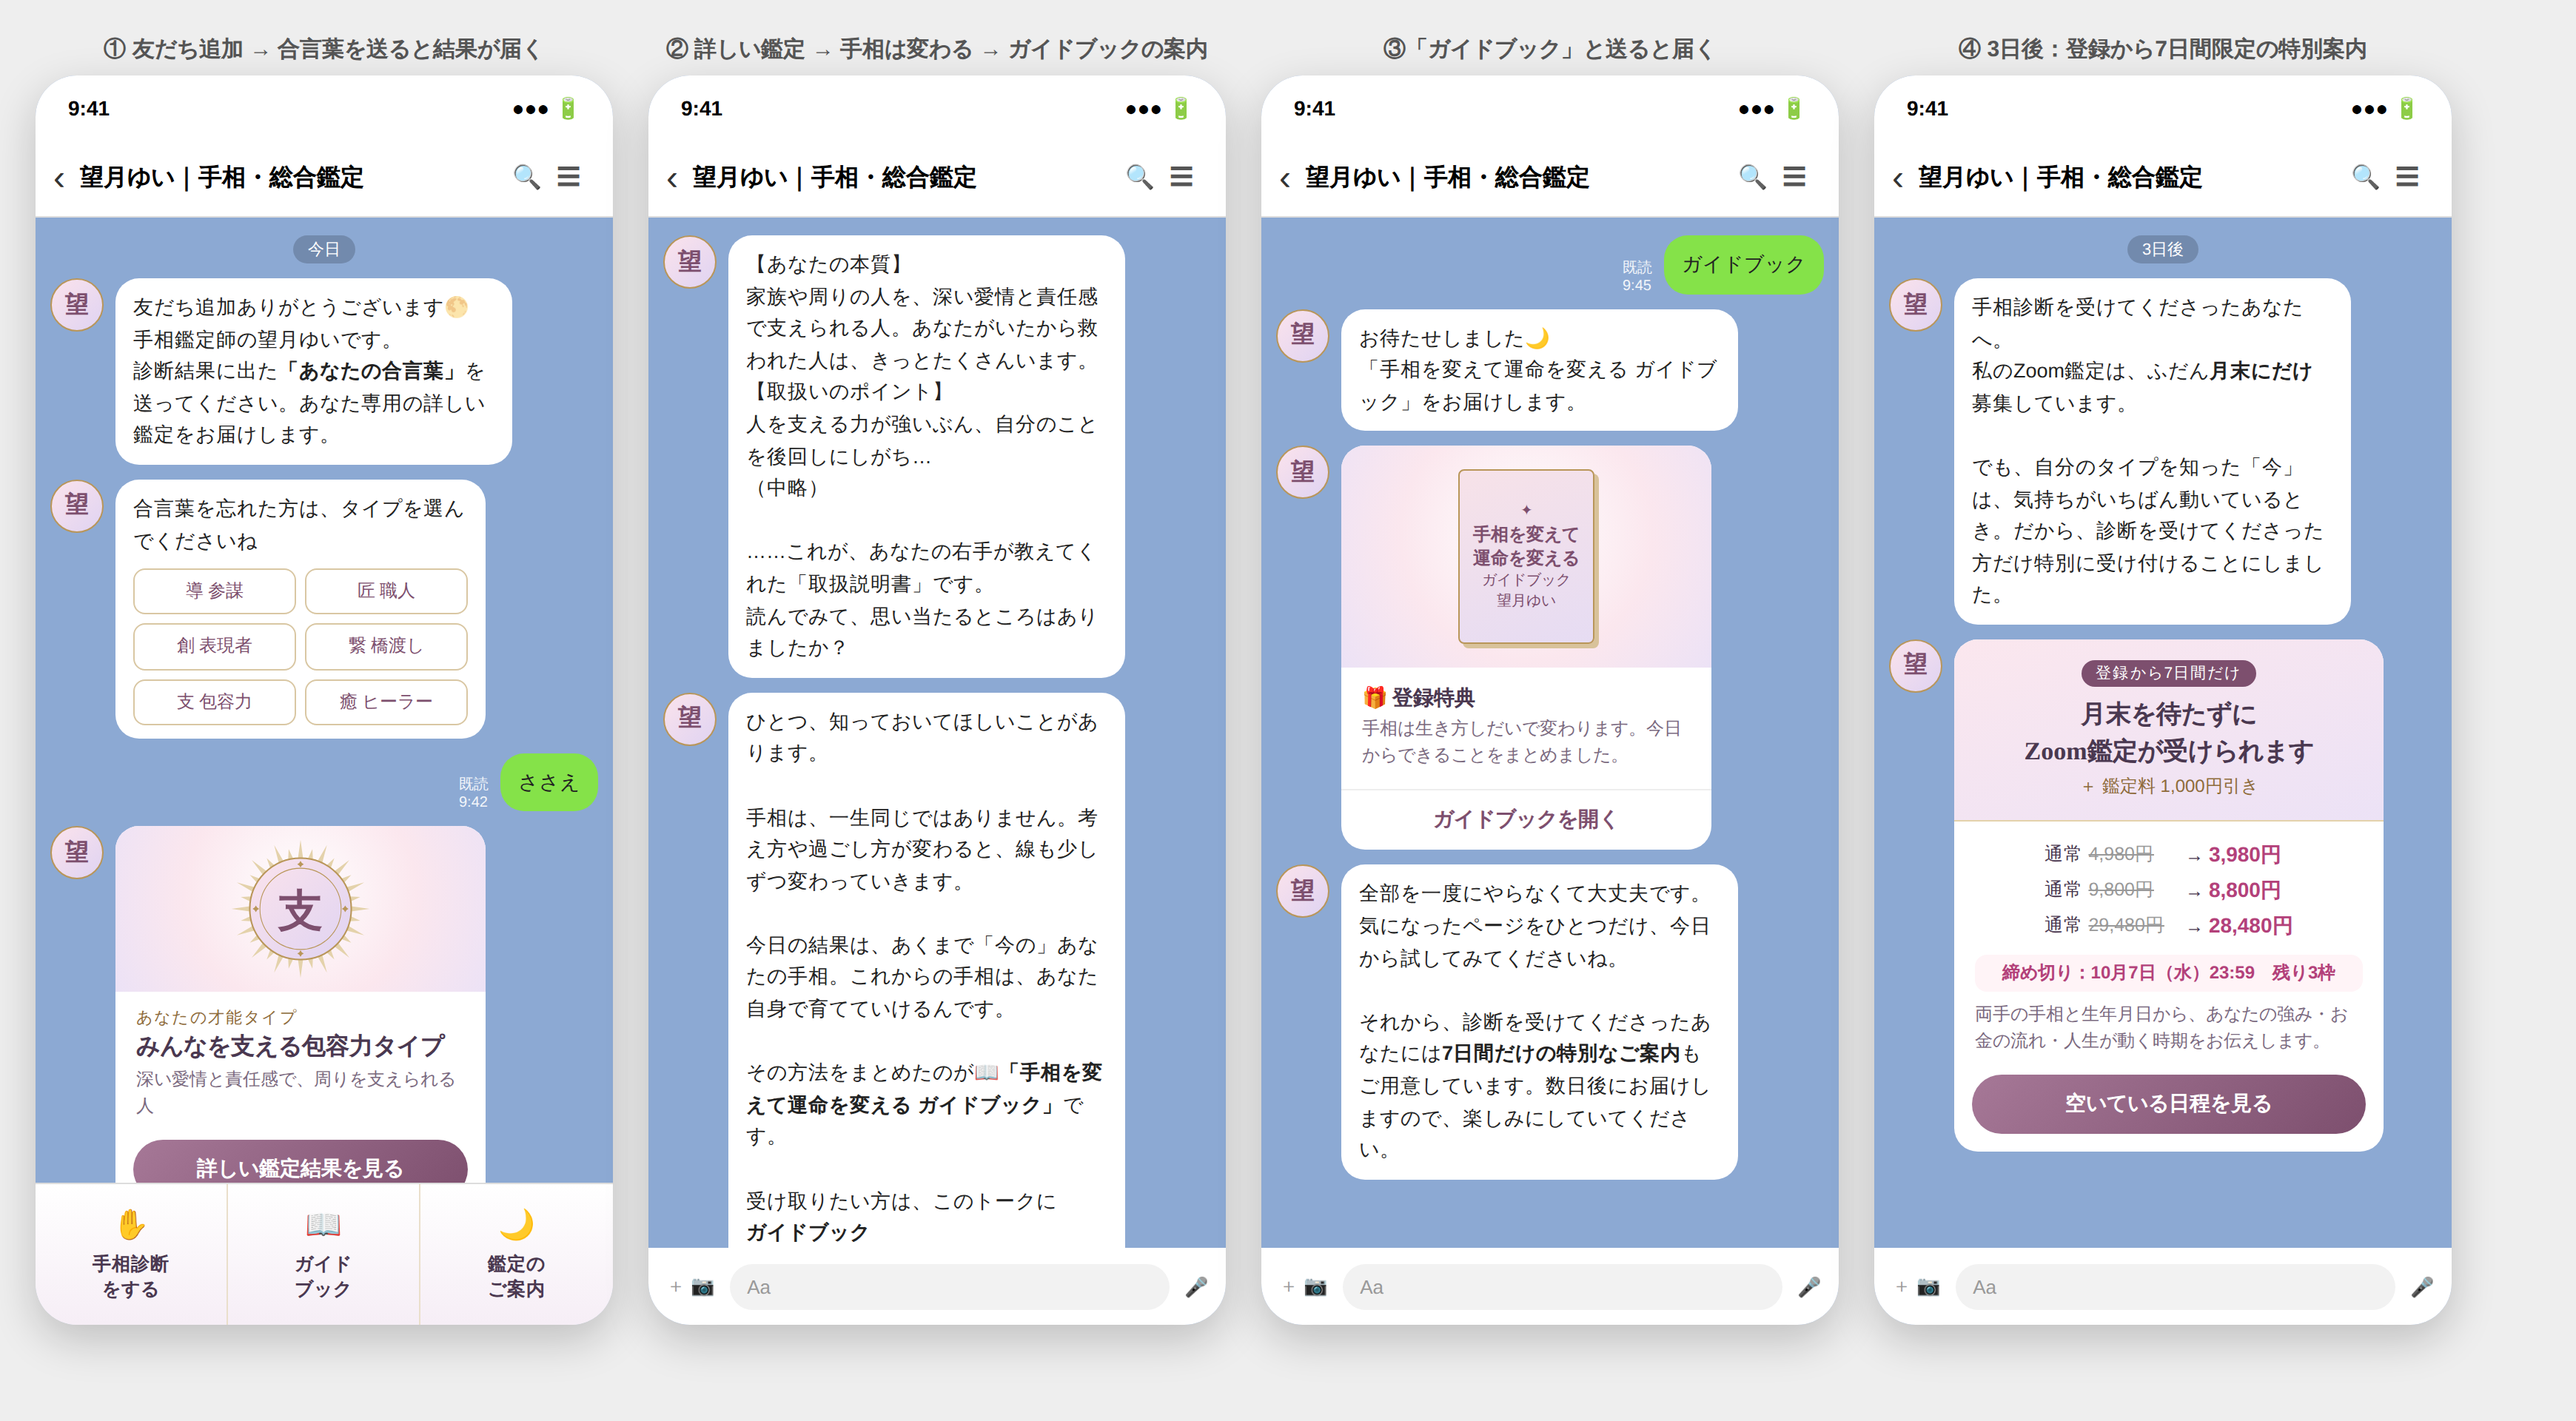
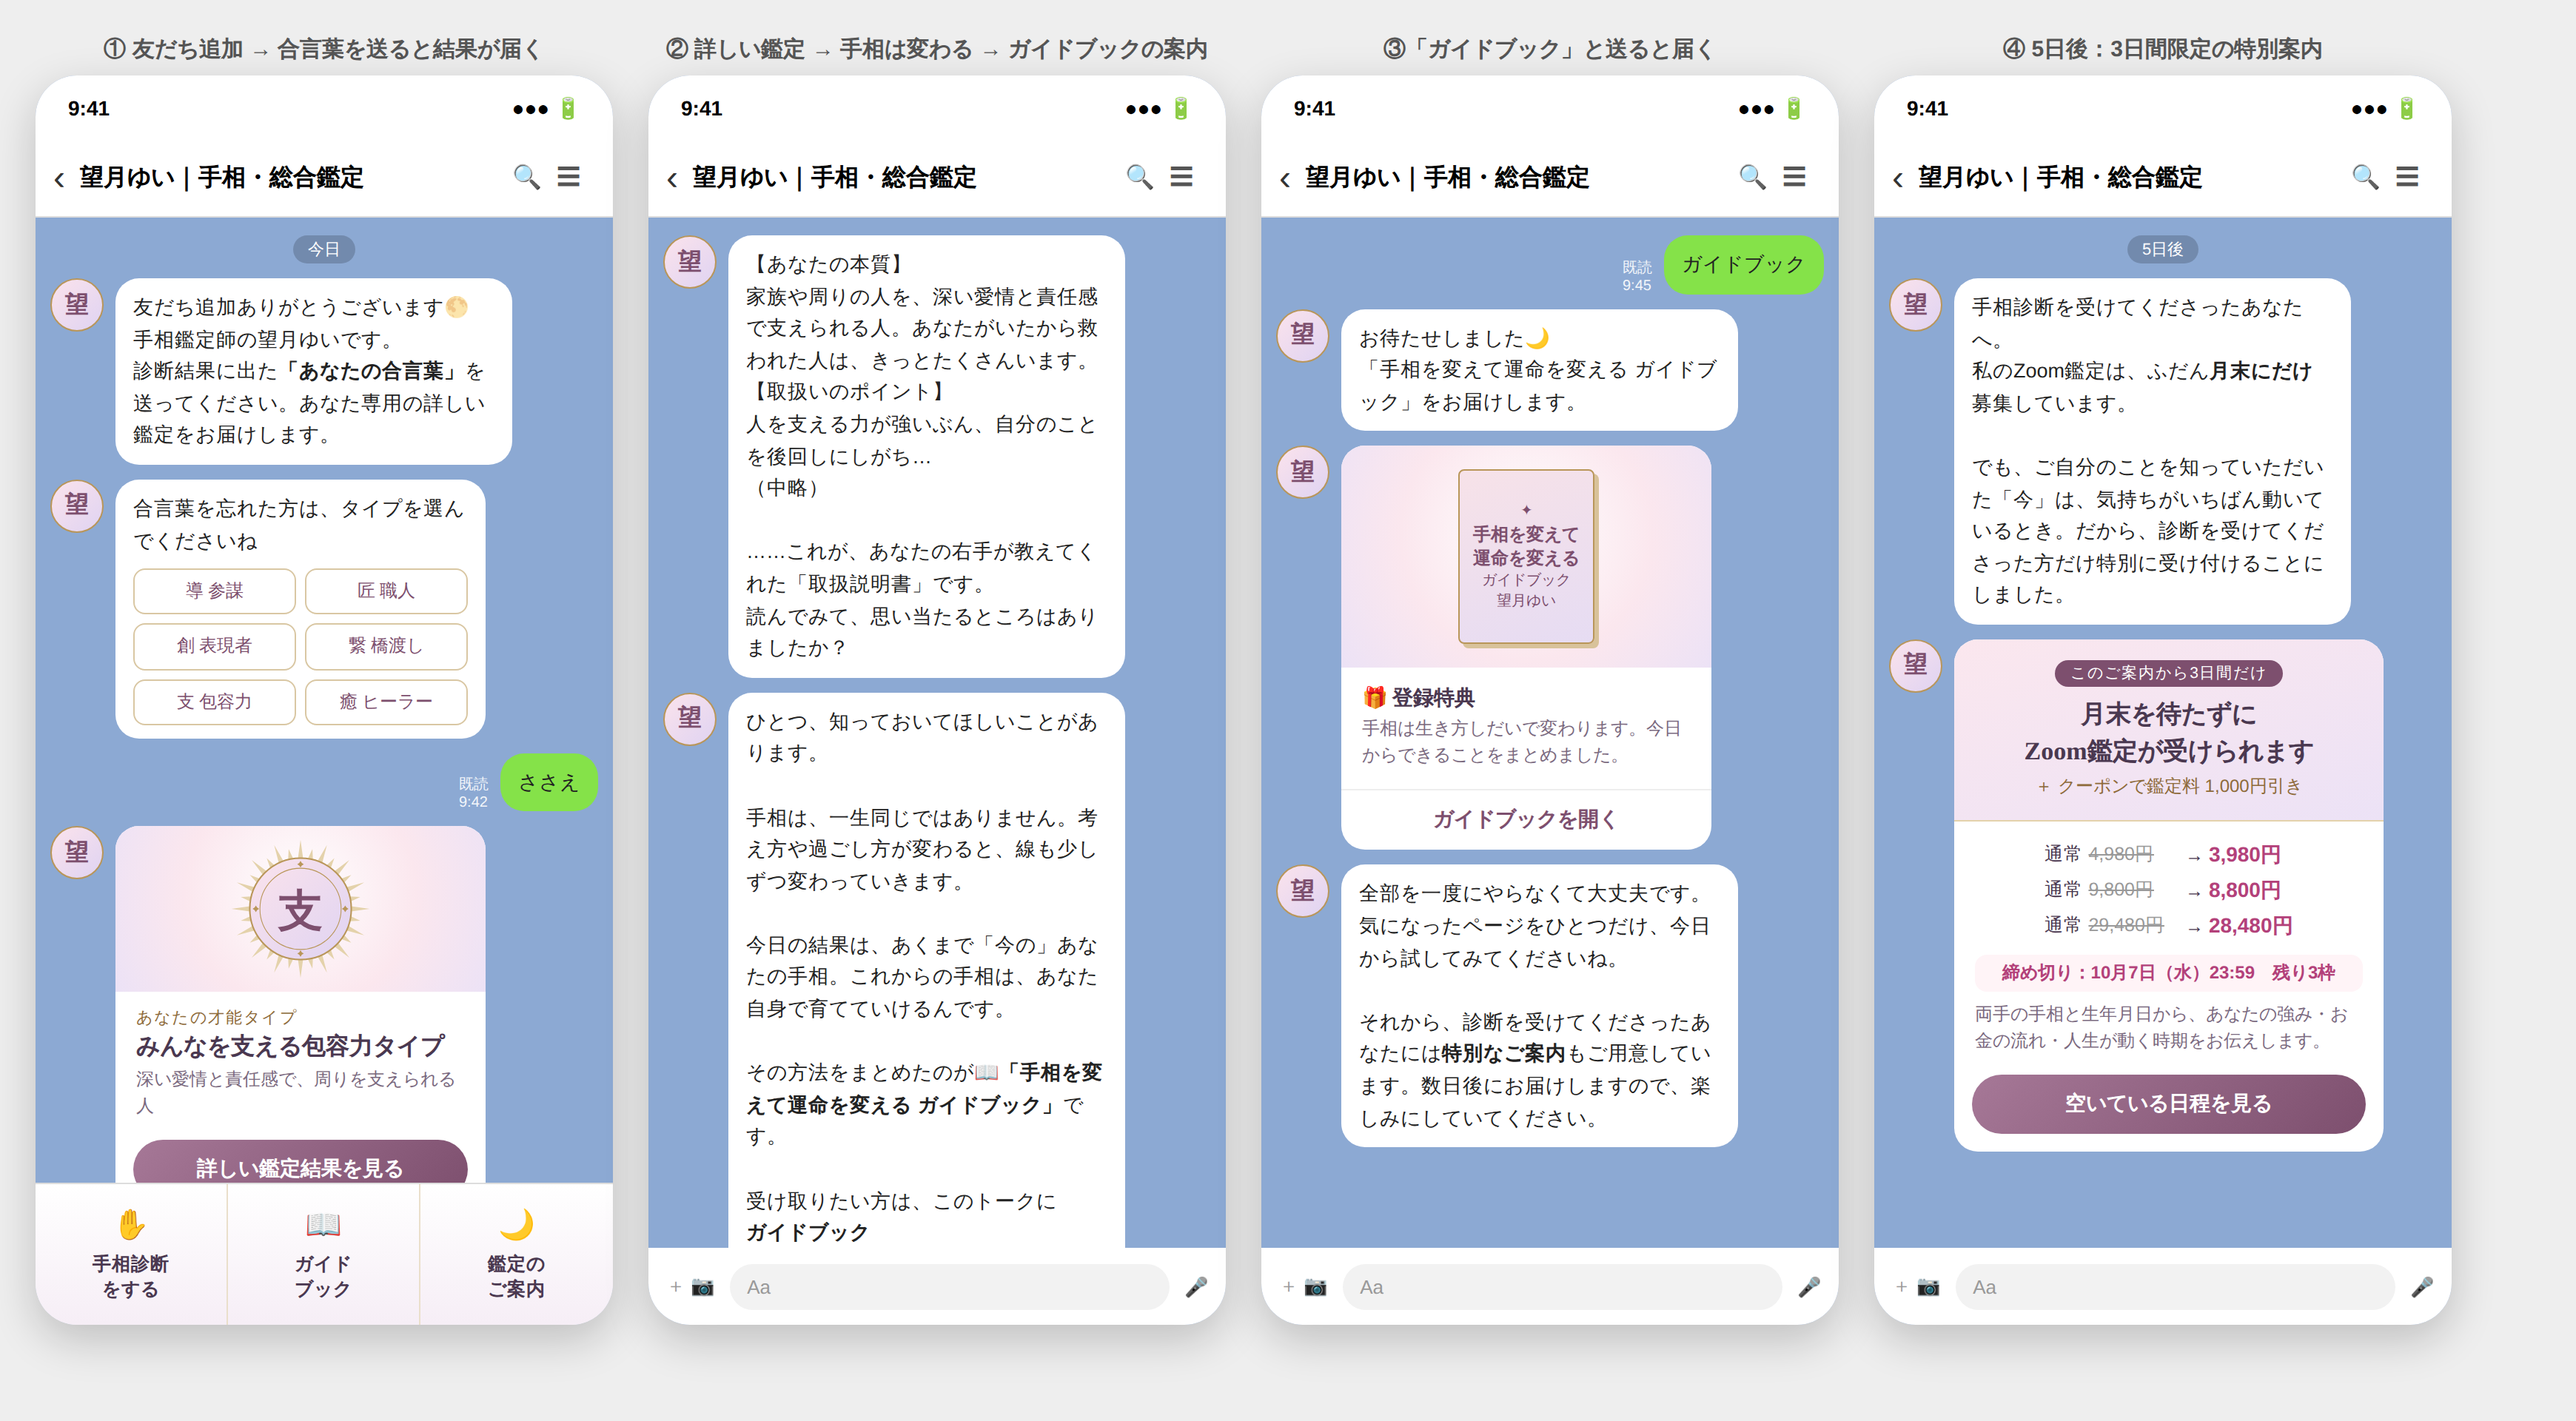
ステップ配信を教育4日＋3日間限定の案内に変更し、STORESクーポンでの運用を追記
Claude-Session: https://claude.ai/code/session_01P1rDiz3eXxKnRTHntrupHW

diff --git a/docs/LINE配信設計.md b/docs/LINE配信設計.md
@@ -7,9 +7,10 @@
   → あいさつ：「合言葉を送ってください」＋タイプ選択ボタン
   → 合言葉（例：ささえ）を受信 → タイプ別タグ付与 → 詳しい鑑定を自動返信
   → 「手相は変わる」という話から、ガイドブックを案内
-  → 「ガイドブック」と送ってくれた人にお届け（タグ付け）＋7日間の特別案内を予告
+  → 「ガイドブック」と送ってくれた人にお届け（タグ付け）＋特別案内を予告
   → ステップ配信（登録日から7日間）
-     └ 3日目に「診断を受けた方限定・7日間だけの特別案内」
+     └ 1〜4日目：教育（手相は変わる／両手と時期／事例／鑑定でわかること）
+     └ 5日目：「3日間だけの特別案内」
         （通常は月末のみ募集のZoom鑑定を特別に受付＋1,000円引き）
   → フロント商品（鑑定 4,980円〜）→ バックエンド商品
 ```
@@ -42,7 +43,6 @@
 | あいさつメッセージ | 下記3の文面。タイプの合言葉を打てない人のために、6タイプのボタンも付ける（ボタン応答でタグ付け） |
 | キーワード応答 | 合言葉6つ（みちびき／たくみ／ひらめき／つなぐ／ささえ／いやし）→ タイプ別の詳しい鑑定を返信し、タグ「手相診断_○○」を付ける |
 | キーワード応答 | 「ガイドブック」→ ガイドブックを返信し、タグ「ガイドブック受取」を付ける。表記ゆれ（がいどぶっく／ガイド／ガイドブック下さい など）も登録しておく |
-| 7日間特典タグ | 登録時にタグ「7日間特典」を付け、ステップ配信の8日目のアクションで外す。申し込み時にこのタグがあれば割引対象 |
 | ステップ配信 | 下記5 |
 
 ※ 合言葉を送る前にブロックされる人を減らすため、あいさつから1時間後に「合言葉を送ると詳しい鑑定が届きます」とリマインドを1通入れる。
@@ -185,7 +185,7 @@
 > 気になったページをひとつだけ、今日から試してみてくださいね。
 >
 > それから、診断を受けてくださったあなたには
-> **7日間だけの特別なご案内** もご用意しています。
+> **特別なご案内** もご用意しています。
 > 数日後にお届けしますので、楽しみにしていてください。
 
 **キーワードで受け取ってもらう理由**
@@ -195,47 +195,49 @@
 
 **その他**
 - 無料の個別診断（写真を見るなど）は行いません。「続き」は、ガイドブックと有料鑑定で受け取ってもらう形です。
-- ガイドブックの最後のページにも、7日間の特別案内への導線（「LINEで届くご案内をお見逃しなく」）を入れておくと効果的です。
+- ガイドブックの最後のページにも、特別案内への導線（「LINEで届くご案内をお見逃しなく」）を入れておくと効果的です。
 
-## 5. ステップ配信（案）― 登録日から7日間
+## 5. ステップ配信（案）― 教育4日 → 案内3日
 
 | 日 | 内容 | 目的 |
 |---|---|---|
 | 当日 | 詳しい鑑定 →「手相は変わる」→ ガイドブックの案内（キーワードで受け取り） | 約束した続きを渡して信頼をつくる |
-| 1日後 | 「運命は自分で作れる」― 手相が変わった実例。ガイドブック未受取の人には受け取りの案内も | 理念の共有、希望を持ってもらう |
-| 2日後 | 右手だけではわからないこと（両手・生年月日で見える「人生が動く時期」）と、総合鑑定でわかること・お客様の声 | 鑑定を受けた自分を想像してもらう |
-| 3日後 | **診断を受けた方限定の特別案内**（下記） | フロント商品の販売 |
-| 5日後 | よくある質問（Zoomが不安、何を聞けばいい？、顔出しは？など） | 申し込みの不安を取り除く |
-| 6日後 | 締め切り前日のお知らせ（残りの枠数） | 決断の後押し |
+| 1日後 | 「運命は自分で作れる」― 手相が変わった実例（ガイドブック未受取の人には受け取りの案内も） | 理念の共有、希望を持つ |
+| 2日後 | 手相でわかること・わからないこと ― 右手と左手の違い、両手と生年月日で見える「人生が動く時期」 | 占いへの理解を深める |
+| 3日後 | 50代・60代から人生が動いたお客様の事例（掲載許可を得たもの） | 自分ごと化 |
+| 4日後 | 総合鑑定でわかること（強み・向いている仕事・お金の流れ・時期）と、鑑定の流れ（Zoomが初めてでも大丈夫） | 鑑定を受けた自分を想像し、不安をなくす |
+| **5日後** | **特別案内（3日間限定）** | フロント商品の販売 |
+| 6日後 | よくある質問＋残りの枠数 | 不安の解消、後押し |
 | 7日後 | 締め切り当日（朝）の最終案内 | 決断の後押し |
 
-## 5-2. 7日間限定の特別案内
+## 5-2. 3日間限定の特別案内
 
 **内容**
-- 通常は **月末のみ募集** のZoom鑑定を、登録から7日以内なら特別に受け付ける
-- さらに鑑定料から **1,000円引き**
+- 通常は **月末のみ募集** のZoom鑑定を、この3日間だけ特別に受け付ける
+- さらに鑑定料から **1,000円引き**（STORESのクーポン）
 
 **案内文（案）**
 
-> 手相診断を受けてくださったあなたへ、7日間だけの特別なご案内です。
+> 手相診断を受けてくださったあなたへ、3日間だけの特別なご案内です。
 >
 > 私のZoom鑑定は、ふだん **月末にだけ** 募集しています。
-> でも、診断で自分のタイプを知った「今」は、気持ちがいちばん動いているとき。
-> そのタイミングを逃してほしくないので、診断を受けてくださった方だけ、特別に受け付けることにしました。
+> でも、この数日間でご自分のことを知っていただいた「今」は、気持ちがいちばん動いているとき。
+> だから、診断を受けてくださった方だけ、特別に受け付けることにしました。
 >
-> 🌙 登録から7日以内の方限定
+> 🌙 このご案内から3日間限定
 > ・月末を待たずにZoom鑑定をお受けいただけます
-> ・鑑定料から1,000円引き
+> ・クーポンコード「{コード}」で鑑定料から1,000円引き
 >
-> 受付締め切り：{登録日から7日後} 23:59
+> 受付締め切り：{案内日から3日後} 23:59
 > ※ 枠には限りがあります
 
-**運用の注意**
-- 締め切りは本当に守る（締め切り後に同じ条件で受け付けると、次から特典を信じてもらえなくなるうえ、景品表示法の有利誤認にあたるおそれがあります）。
-- 割引前の価格は、実際にふだん販売している価格を書く。
-- 月末以外の枠は「週○枠まで」などと上限を決める。本当に数が限られているので、「残り○枠」を正直に伝えられます。
-- 期限はプロラインのステップ配信で、登録日から数えて一人ずつ自動で管理します（上記「7日間特典タグ」）。
-- 「今だけ」「期間限定キャンペーン」ではなく、「登録から7日以内の方限定」と正確に書く（全員に7日間ずつ出す特典なので）。
+**STORESでの運用**
+- STORESのクーポン機能で1,000円引きのクーポンを作り、コードはこの案内の中だけで伝える。
+- クーポンは人ごとの期限を設定できないため、案内文に書いた締め切り（案内日から3日後）で運用する。コードは月ごとに変えると、使い回しを防げる。
+- 月末以外の予約枠は、この案内を受けた人だけに見せる（STORESで公開範囲を限定できる設定があれば活用。なければ受付フォーム経由で日程を調整）。
+- 月末以外の枠は「週○枠まで」など上限を決め、「残り○枠」を正直に伝える。
+- 締め切りは本当に守る（締め切り後に同じ条件で受け付けると特典を信じてもらえなくなり、景品表示法の有利誤認にあたるおそれも）。
+- 「今だけ」ではなく「このご案内から3日間限定」と正確に書く。
 
 ## 6. 商品導線の考え方
 
